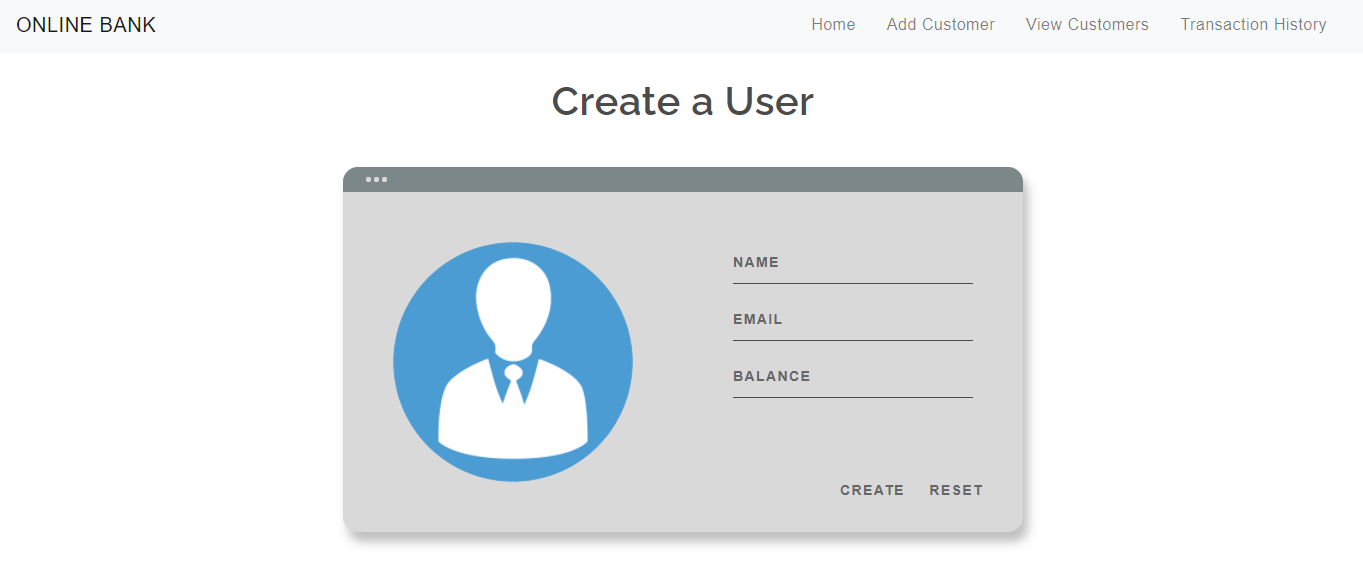
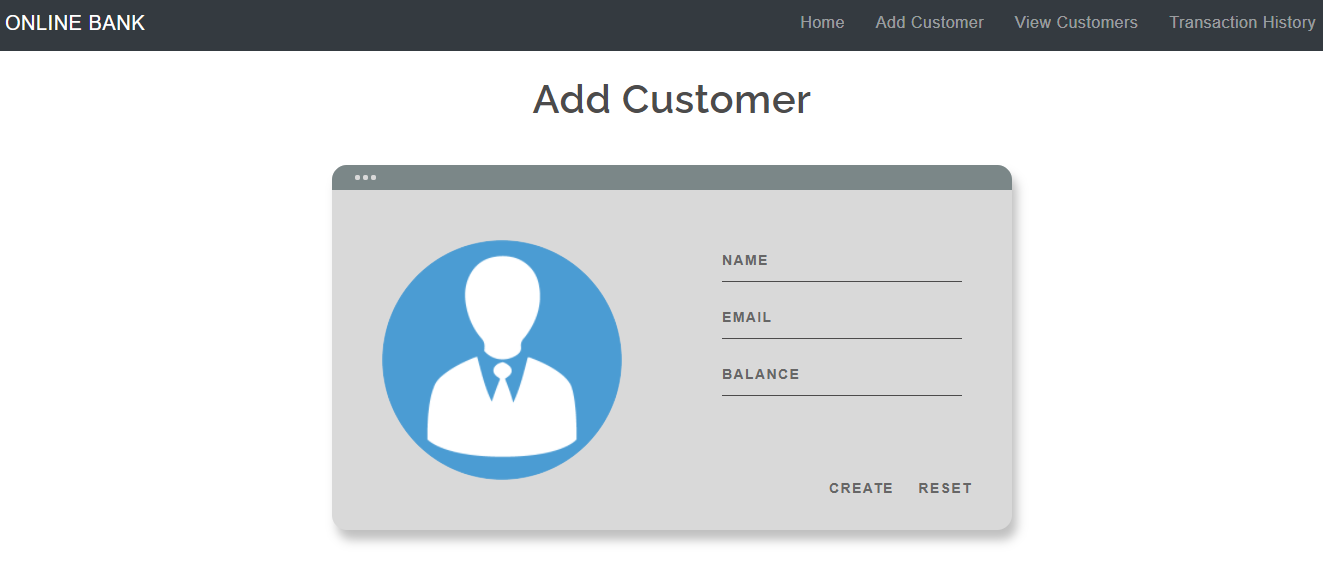
initial commit

diff --git a/createuser.php b/createuser.php
@@ -20,7 +20,7 @@
     $sql="insert into customers(name,email,balance) values('{$name}','{$email}','{$balance}')";
     $result=mysqli_query($conn,$sql);
     if($result){
-               echo "<script> alert('Hurray! User created');
+               echo "<script> alert('Hurray! Customer created');
                                window.location='transfermoney.php';
                      </script>";
                     
@@ -71,6 +71,7 @@
     </div>
   </div>
 </div>
+ <script src="https://cdn.jsdelivr.net/npm/sweetalert2@10.14.0/dist/sweetalert2.all.min.js"></script>
 <script src="https://code.jquery.com/jquery-3.5.1.slim.min.js" integrity="sha384-DfXdz2htPH0lsSSs5nCTpuj/zy4C+OGpamoFVy38MVBnE+IbbVYUew+OrCXaRkfj" crossorigin="anonymous"></script>
 <script src="https://cdn.jsdelivr.net/npm/bootstrap@4.5.3/dist/js/bootstrap.bundle.min.js" integrity="sha384-ho+j7jyWK8fNQe+A12Hb8AhRq26LrZ/JpcUGGOn+Y7RsweNrtN/tE3MoK7ZeZDyx" crossorigin="anonymous"></script>
 </body>

diff --git a/transfermoney.php b/transfermoney.php
@@ -36,7 +36,7 @@
             <div class="row">
                 <div class="col">
                     <div class="table-responsive-sm">
-                    <table class="table table-hover table-sm table-striped table-condensed table-bordered">
+                    <table class="table table-hover table-sm table-striped table-dark table-bordered">
                         <thead>
                             <tr>
                             <th scope="col" class="text-center py-2">Id</th>

diff --git a/selecteduserdetail.php b/selecteduserdetail.php
@@ -125,7 +125,7 @@ if(isset($_POST['submit']))
             ?>
             <form method="post" name="tcredit" class="tabletext" ><br>
         <div>
-            <table class="table table-striped table-condensed table-bordered">
+            <table class="table table-striped table-dark table-bordered">
                 <tr>
                     <th class="text-center">Id</th>
                     <th class="text-center">Name</th>

diff --git a/navbar.php b/navbar.php
@@ -1,5 +1,5 @@
 <!-- navbar --> 
-      <nav class="navbar navbar-expand-md navbar-light bg-light">
+      <nav class="navbar navbar-expand-md navbar-dark bg-dark">
       <a class="navbar-brand" href="index.php">ONLINE BANK</a>
       <button class="navbar-toggler" type="button" data-toggle="collapse" data-target="#collapsibleNavbar">
         <span class="navbar-toggler-icon"></span>

diff --git a/transactionhistory.php b/transactionhistory.php
@@ -20,7 +20,7 @@
         
        <br>
        <div class="table-responsive-sm">
-    <table class="table table-hover table-striped table-condensed table-bordered">
+    <table class="table table-hover table-striped table-dark table-bordered">
         <thead>
             <tr>
                 <th class="text-center">S.No.</th>
